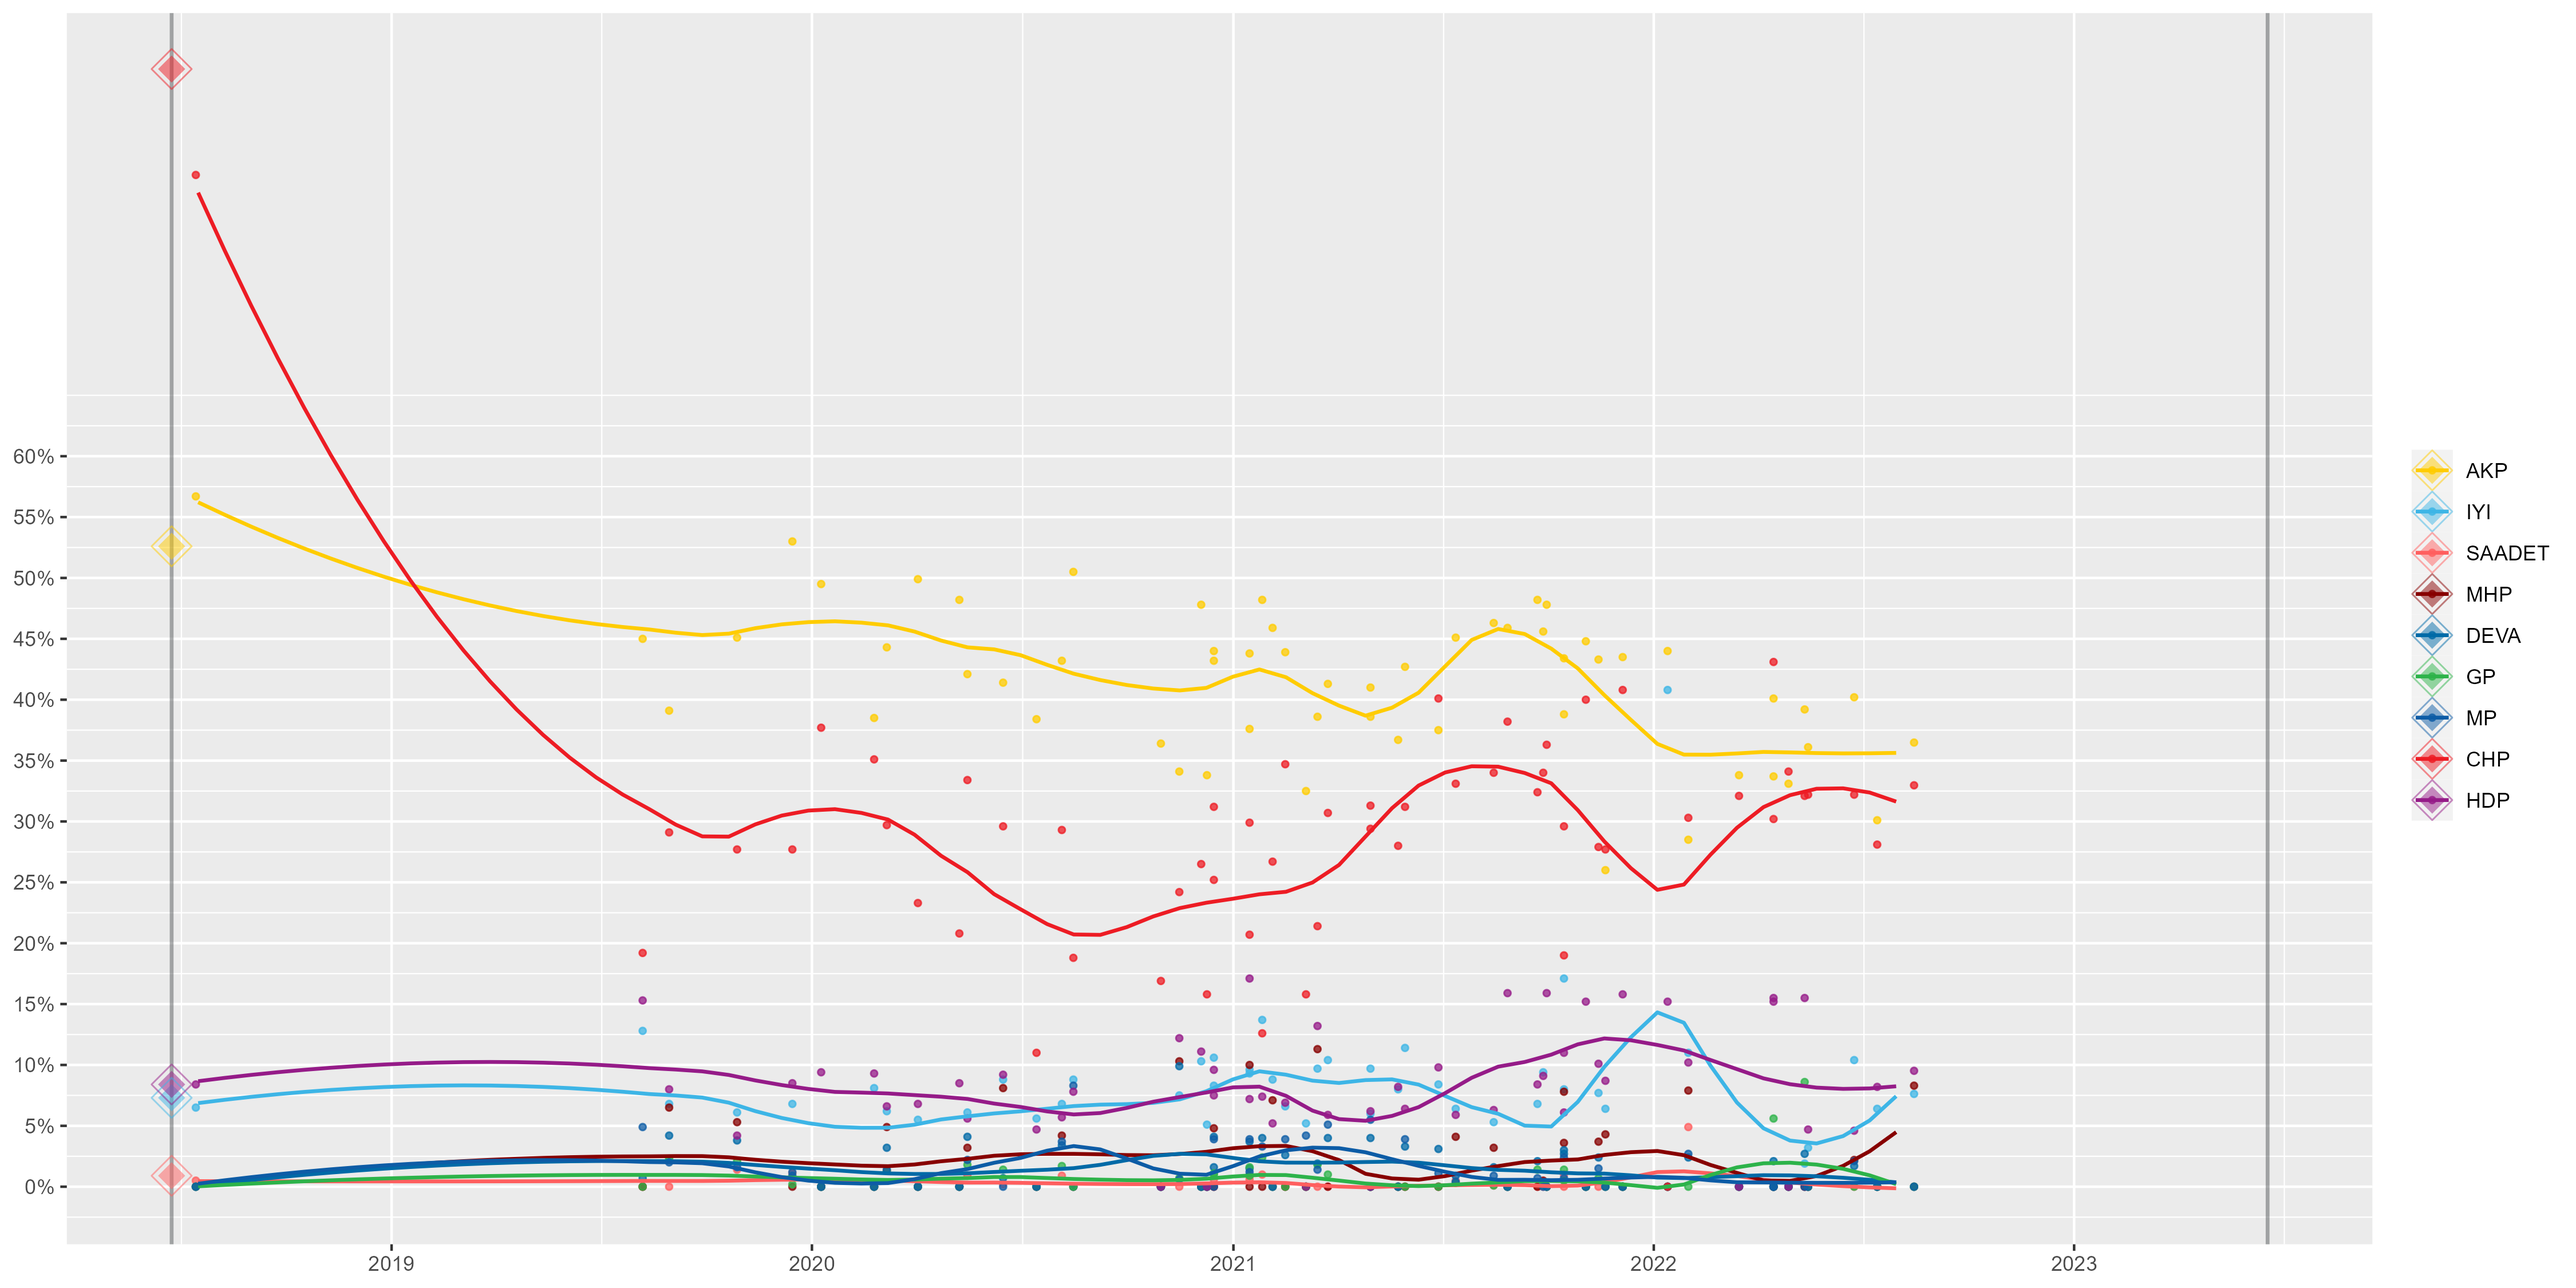
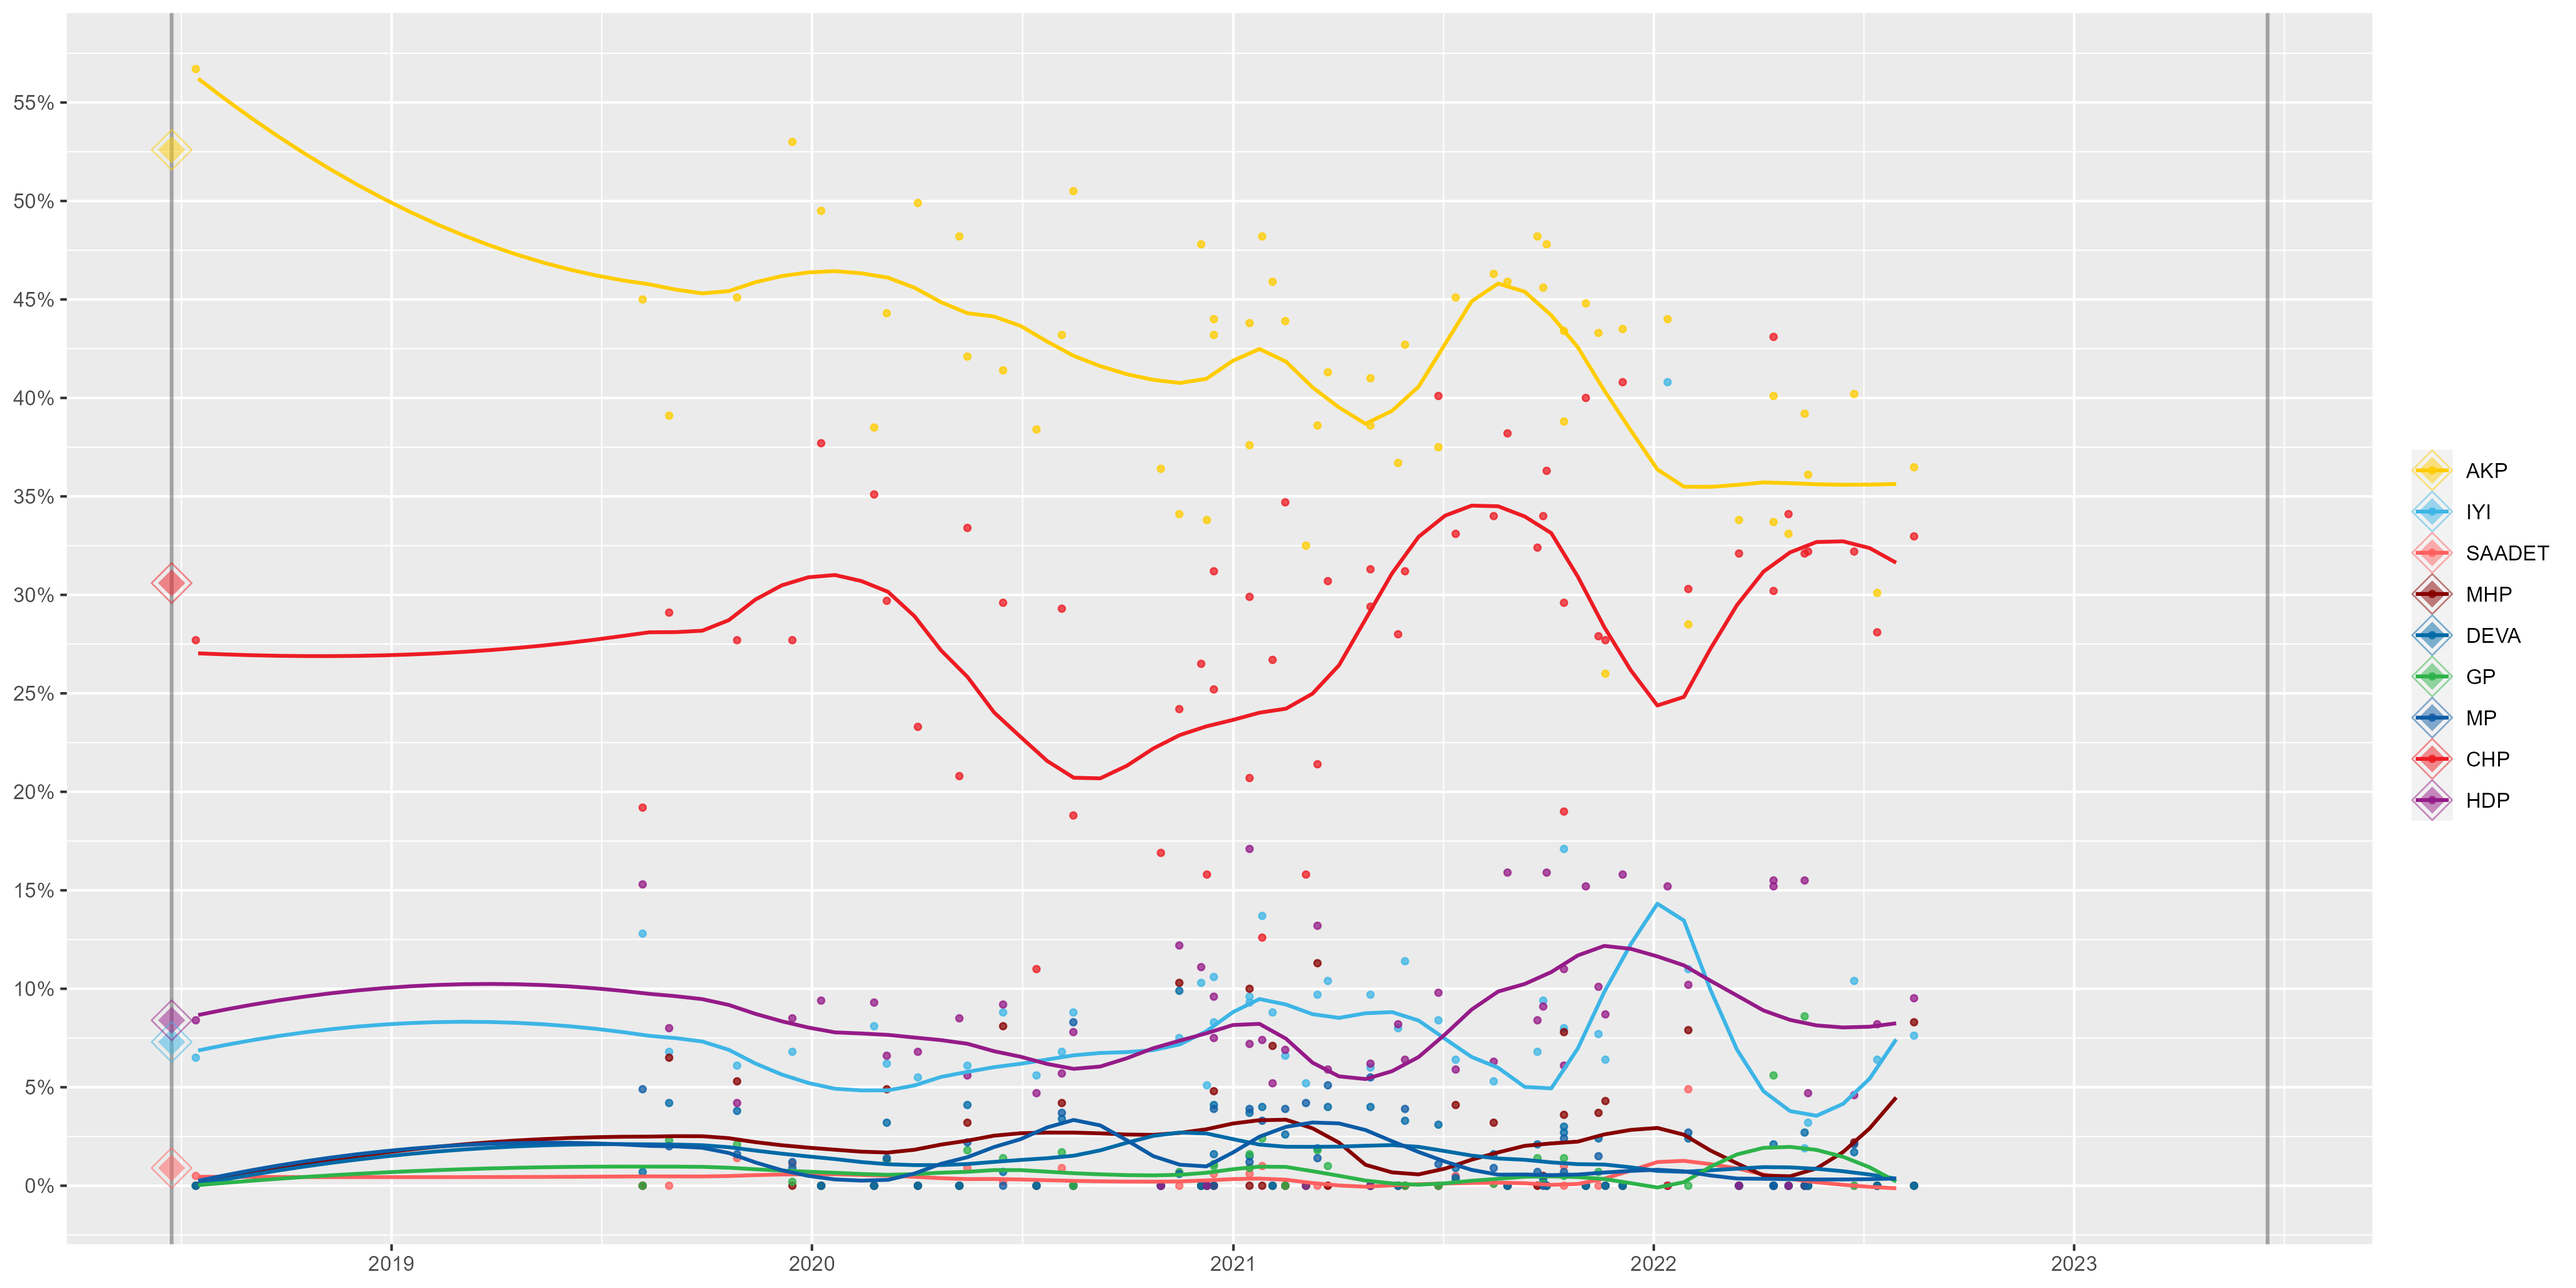
oops!

diff --git a/Turkish_Elections/data.py b/Turkish_Elections/data.py
@@ -99,6 +99,9 @@ data19.loc[len(data19.index),['Dates conducted']] = '24 Jun 2018'
 data19[parties] = data19[parties].astype(float)
 data19['CHP'] = data19[CHP].sum(axis=1)
 data19 = data19.drop(CHP, axis=1)
+data19.loc[len(data19.index),['CHP']] = 30.6
+data19.loc[len(data19.index)-1,['CHP']] = 27.7
+
 print(data19)
 
 
